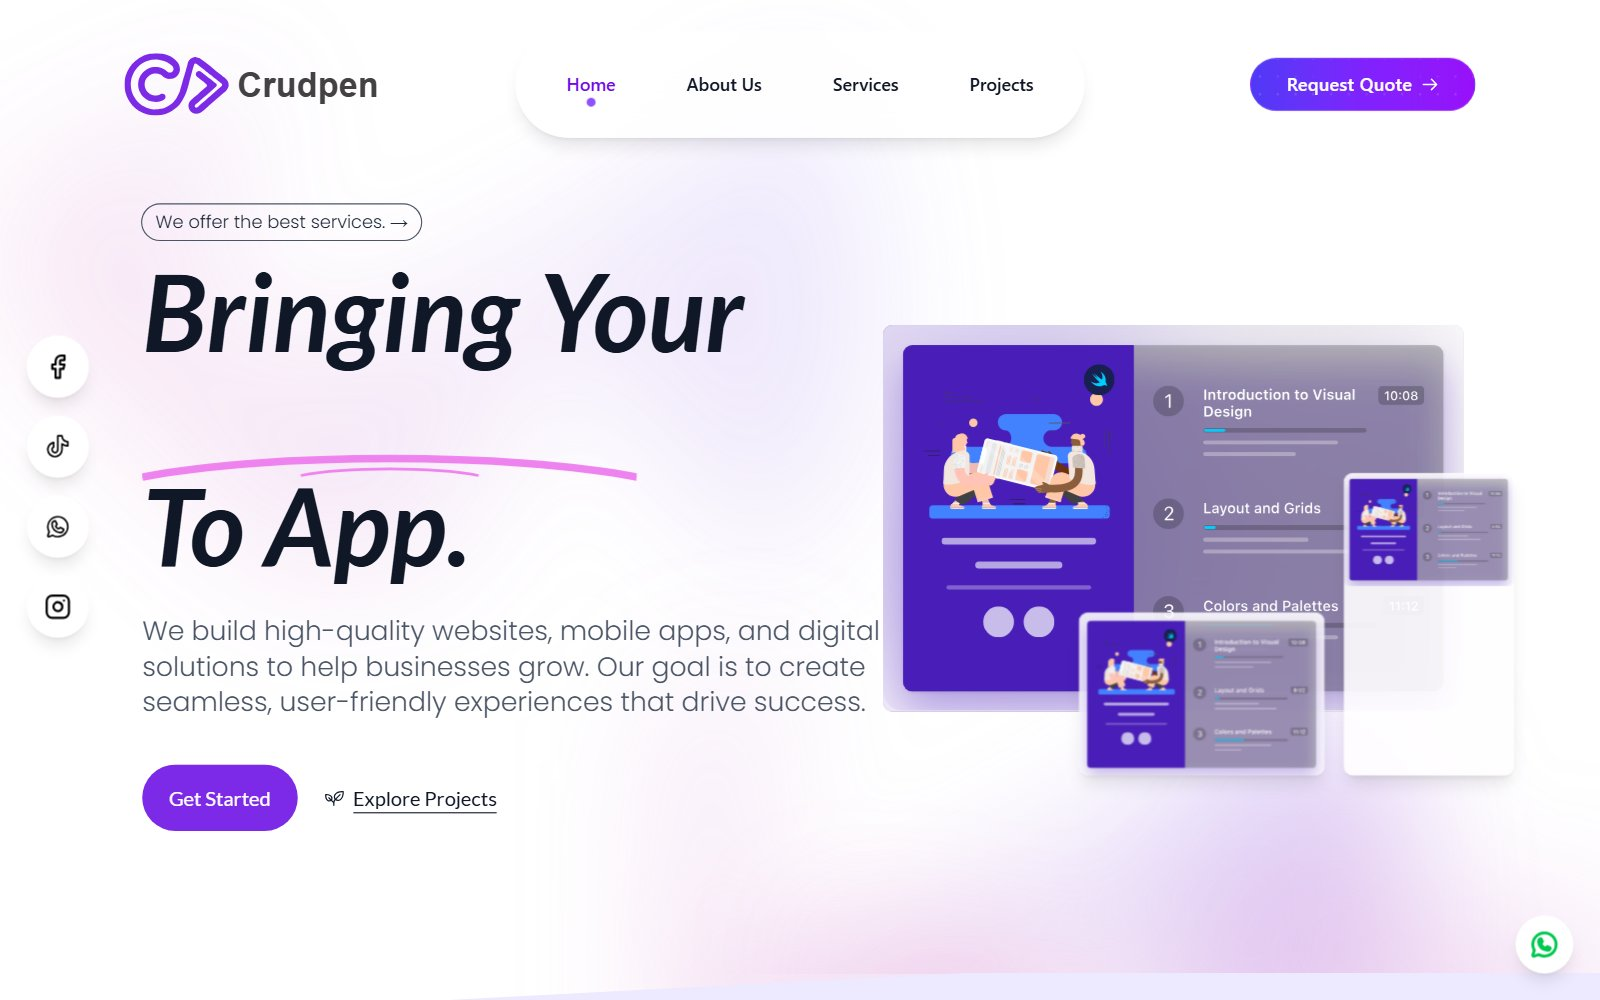
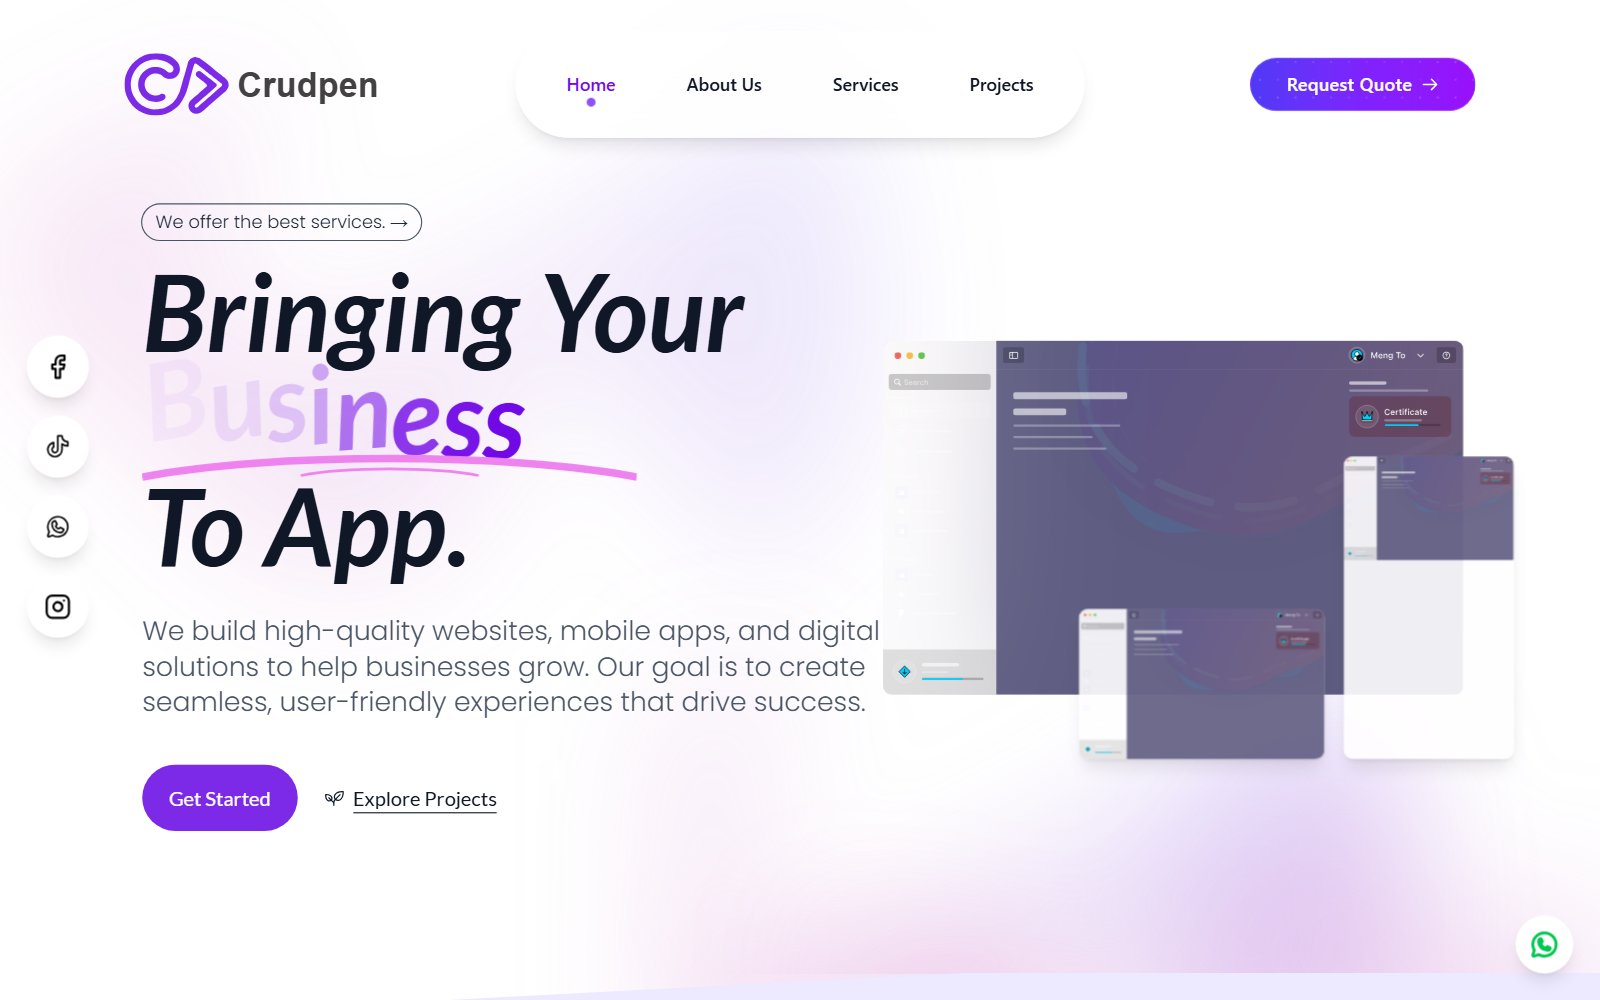
Add client previews, TypeScript skill and hide unpublished work

Changed region(s): [[0.5312, 0.31, 0.9688, 0.775], [0.1562, 0.372, 0.3438, 0.465]]

diff --git a/src/data/projects.js b/src/data/projects.js
@@ -43,10 +43,10 @@ export const projects = [
     slug: "index-consulting",
     role: "Frontend Developer",
     description:
-      "A full website rebuild for Index Consulting, delivered as a responsive client site.",
+      "Website rebuild for Index Consulting; the updated site is not published yet.",
     stack: [],
     image: "/projects/index-consulting.jpg",
-    liveUrl: "https://index.com.ng",
+    liveUrl: "",
     repoUrl: "",
     featured: true,
     caseStudy: true,
@@ -77,6 +77,7 @@ export const projects = [
     featured: false,
     caseStudy: true,
   },
+  /*
   {
     title: "Sapabay",
     slug: "sapabay",
@@ -89,6 +90,7 @@ export const projects = [
     featured: false,
     caseStudy: true,
   },
+  */
   {
     title: "OpsReady",
     slug: "opsready",
@@ -132,7 +134,7 @@ export const projects = [
     description: "A responsive client website for AirFlourish.",
     stack: [],
     image: "/projects/airflourish.jpg",
-    liveUrl: "",
+    liveUrl: "https://www.airflourish.com/",
     repoUrl: "",
     featured: false,
     caseStudy: true,
@@ -144,7 +146,7 @@ export const projects = [
     description: "Responsive professional website for Grandlife Pharmaceuticals.",
     stack: [],
     image: "/projects/grandlife.jpg",
-    liveUrl: "",
+    liveUrl: "https://grandlifepharmaceuticals.com/",
     repoUrl: "",
     featured: false,
     caseStudy: true,

diff --git a/src/components/Skills.jsx b/src/components/Skills.jsx
@@ -3,6 +3,7 @@ import { FaChevronLeft, FaChevronRight, FaSlash, FaReact, FaHtml5, FaCss3, FaBoo
 import { IoLogoJavascript } from "react-icons/io5";
 import { TbBrandNextjs } from "react-icons/tb";
 import { BiLogoTailwindCss, BiLogoJquery } from "react-icons/bi";
+import { SiTypescript } from "react-icons/si";
 
 export default function Skills() {
   return (
@@ -21,6 +22,10 @@ export default function Skills() {
                 <span className="flex flex-col items-center gap-2 md:gap-3 transition-all hover:scale-125">
                     <IoLogoJavascript className="text-4xl lg:text-7xl text-[#F0DB4F]" />
                     <h4 className='font-primary text-[11px] lg:text-sm'>Javascript</h4>
+                </span>
+                <span className="flex flex-col items-center gap-2 md:gap-3 transition-all hover:scale-125">
+                    <SiTypescript className="text-4xl lg:text-7xl text-[#3178C6]" />
+                    <h4 className='font-primary text-[11px] lg:text-sm'>TypeScript</h4>
                 </span>
                 <span className="flex flex-col items-center gap-2 md:gap-3 transition-all hover:scale-125">
                     <BiLogoJquery className="text-4xl lg:text-7xl text-[#F0DB4F]"  />
